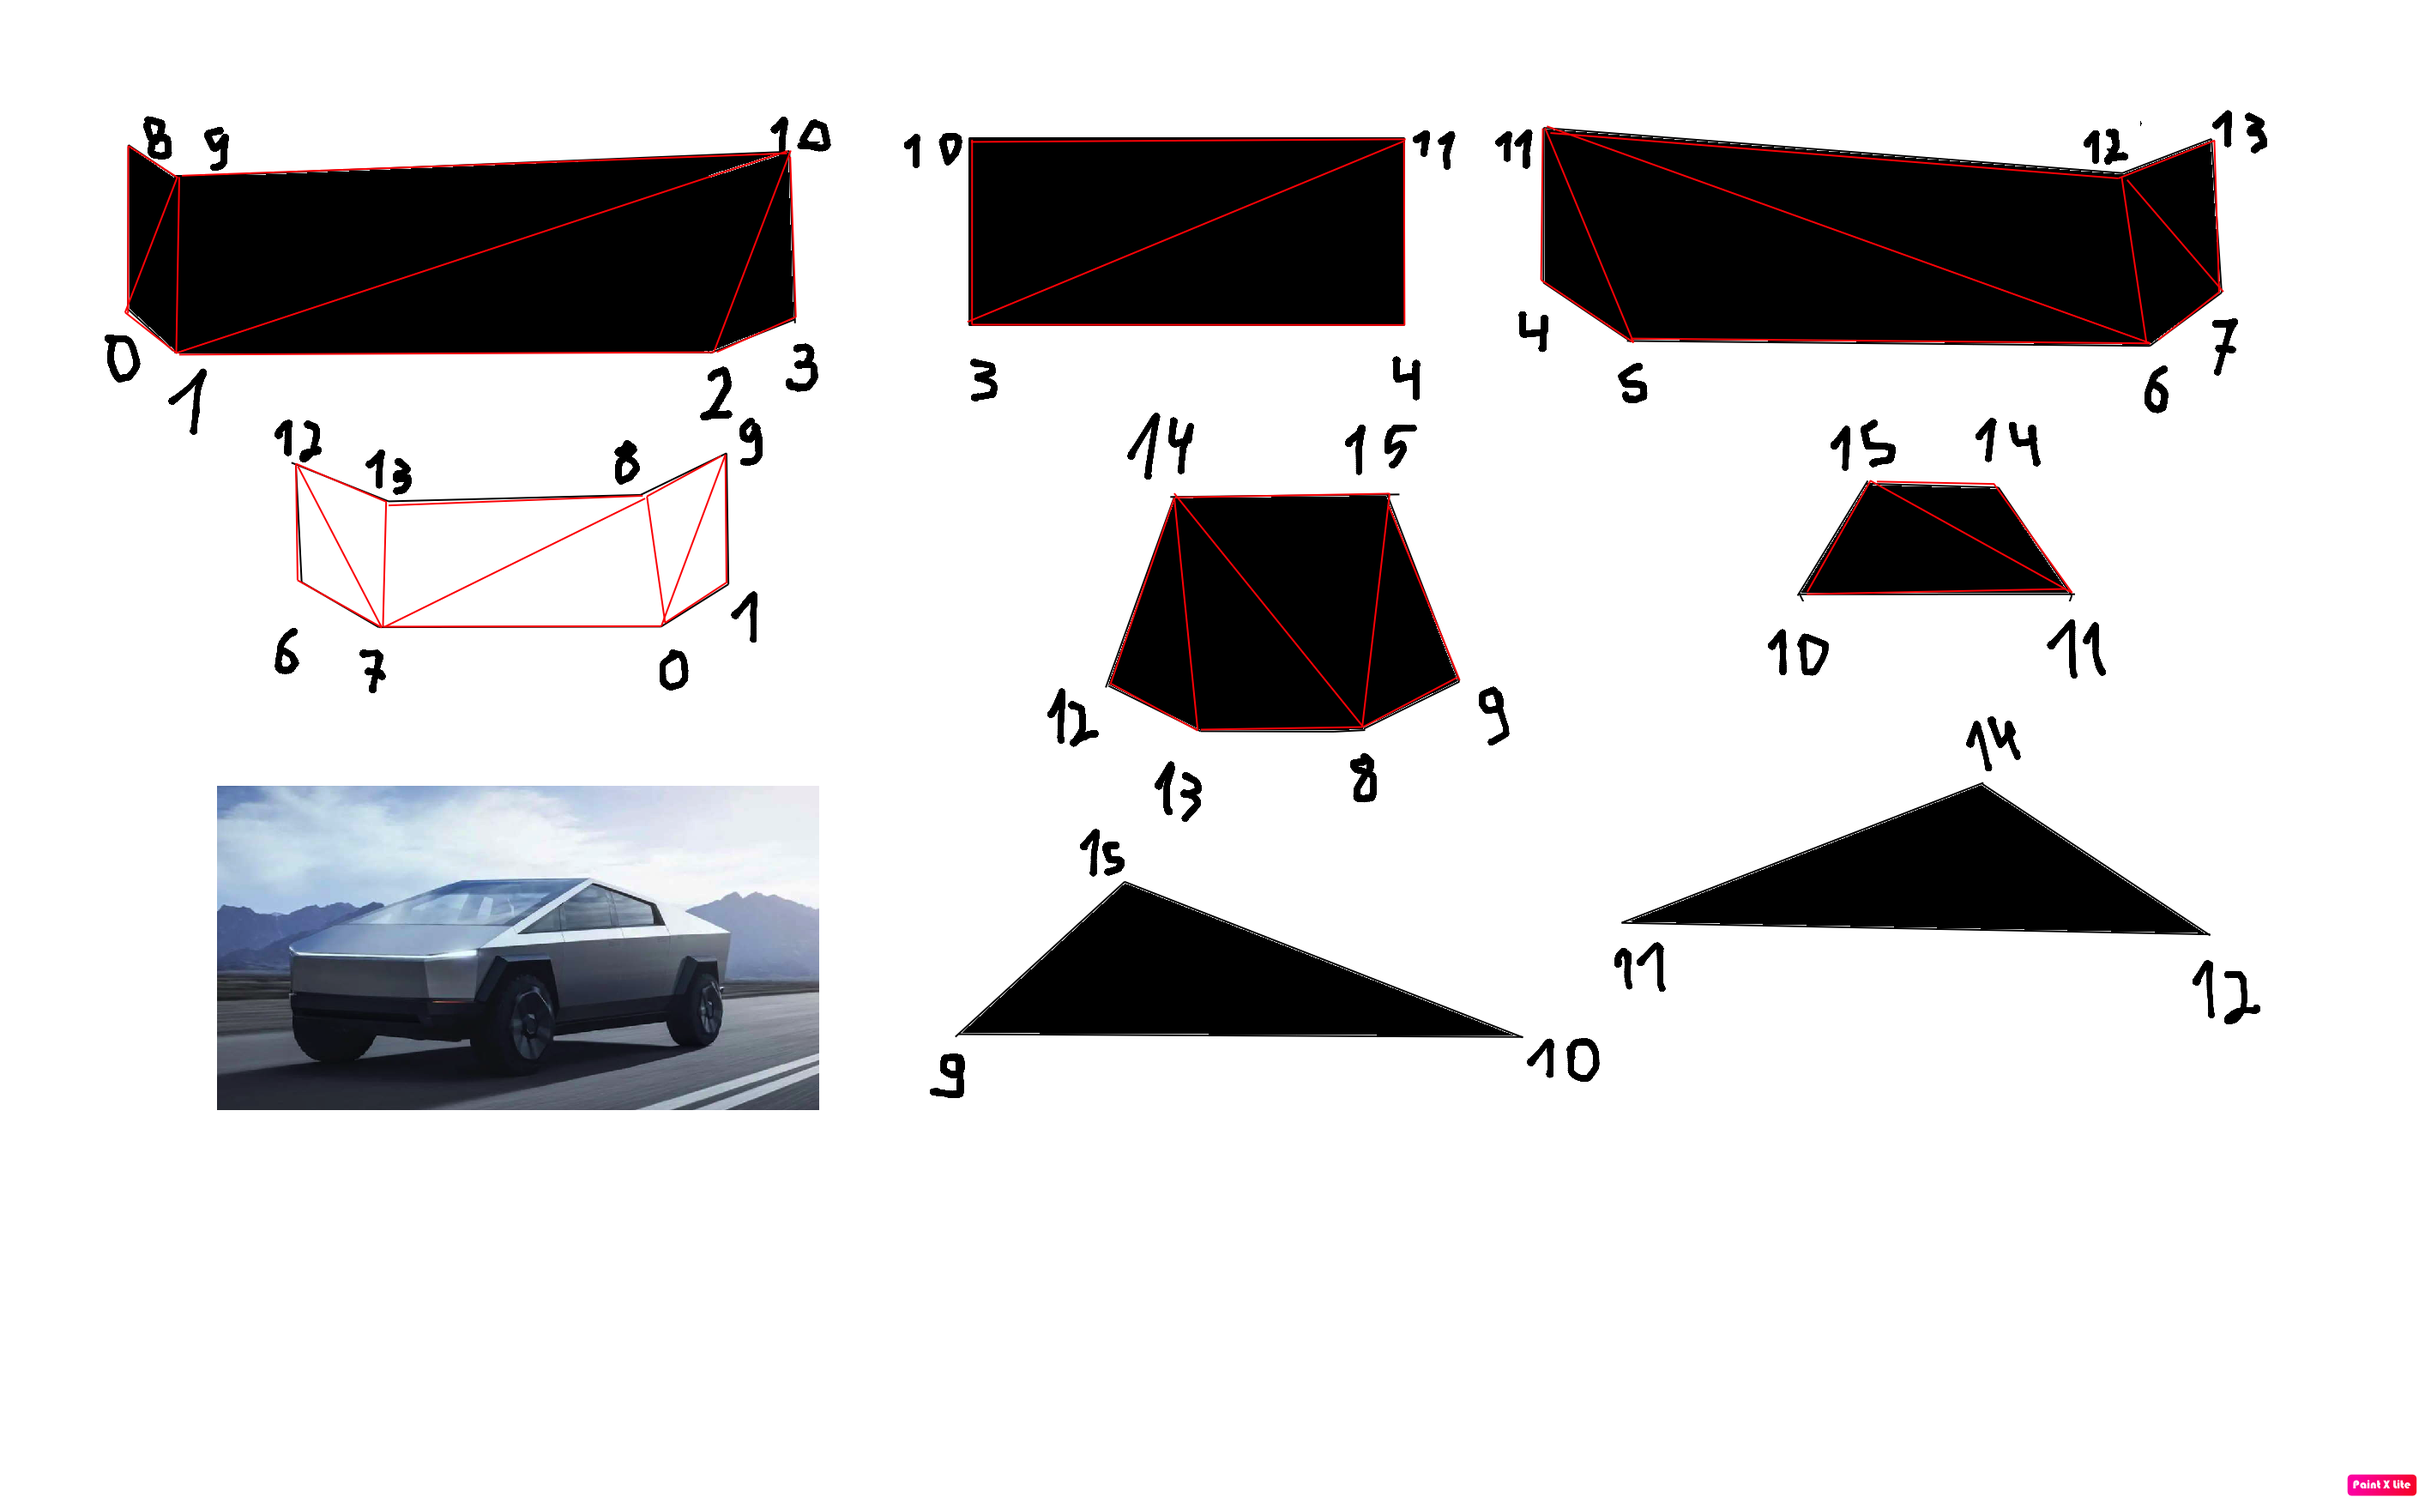
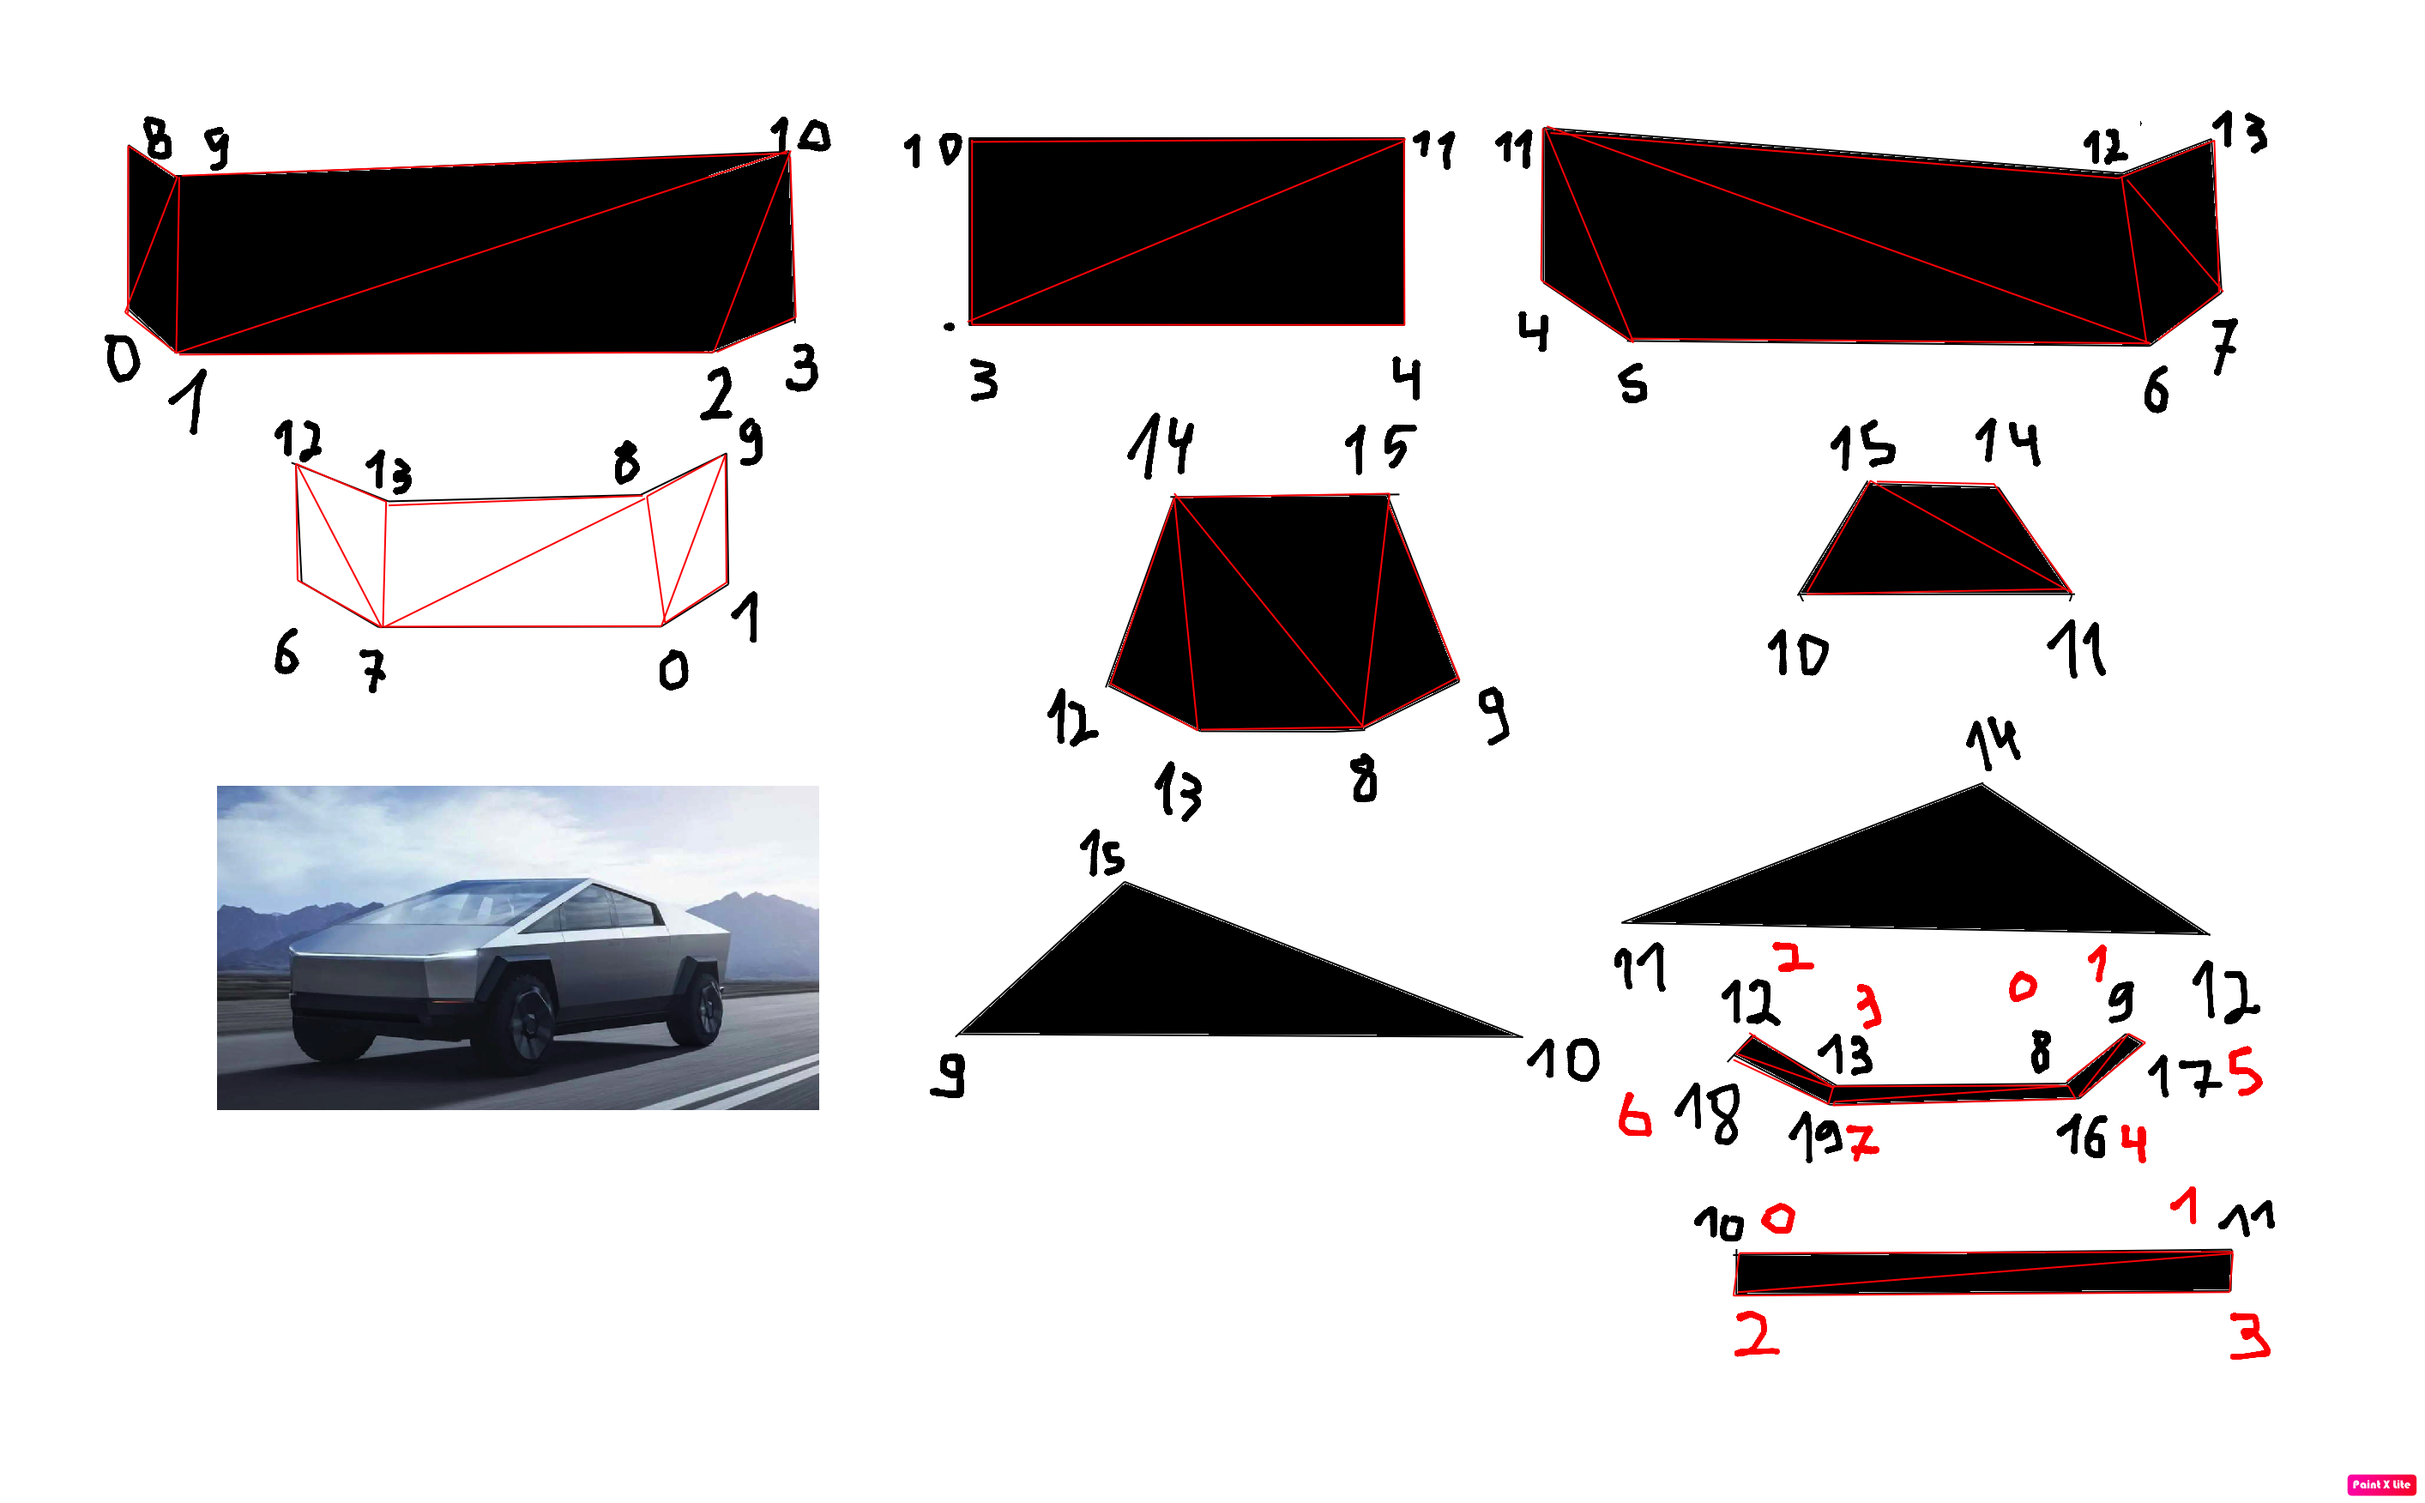
added lights - not mesh

diff --git a/proj3/js/lights.js b/proj3/js/lights.js
@@ -1,0 +1,49 @@
+class Lights extends THREE.Object3D{
+
+    constructor(wheelRadius, platformHeight){
+
+        super();
+
+        material = new THREE.MeshBasicMaterial({ color: 0xd1dcff, wireframe: false});
+        const lights = new THREE.Geometry();
+        const frontLight = new THREE.Geometry();
+        const rearLight = new THREE.Geometry();
+
+        var bottomBodyStyleLength = 588.5;
+        var bottomBodyStyleWidth = 202.7;
+        var bodyStyleHeight = 190.5;
+
+        lights.vertices.push(
+            new THREE.Vector3(-bottomBodyStyleLength/2 -0.1, platformHeight + wheelRadius *9/4, bottomBodyStyleWidth/2 -40),//8 cima 0
+            new THREE.Vector3(-bottomBodyStyleLength/2 +50 -0.1, platformHeight + wheelRadius *9/4, bottomBodyStyleWidth/2),//9 1
+            new THREE.Vector3(-bottomBodyStyleLength/2 +50 -0.1, platformHeight + wheelRadius *9/4, -bottomBodyStyleWidth/2),//12 2
+            new THREE.Vector3(-bottomBodyStyleLength/2 -0.1, platformHeight + wheelRadius *9/4, -bottomBodyStyleWidth/2 +40),//13 3
+
+            new THREE.Vector3(-bottomBodyStyleLength/2 -0.1, platformHeight + wheelRadius *9/4 -3, bottomBodyStyleWidth/2 -40),//16 baixo 4
+            new THREE.Vector3(-bottomBodyStyleLength/2 +50 -0.1, platformHeight + wheelRadius *9/4 -3, bottomBodyStyleWidth/2),//17 5
+            new THREE.Vector3(-bottomBodyStyleLength/2 +50 -0.1, platformHeight + wheelRadius *9/4 -3, -bottomBodyStyleWidth/2),//18 6
+            new THREE.Vector3(-bottomBodyStyleLength/2 -0.1, platformHeight + wheelRadius *9/4 -3, -bottomBodyStyleWidth/2 +40),//19 7
+
+            new THREE.Vector3( bottomBodyStyleLength/2 +10, platformHeight + wheelRadius *11/4, bottomBodyStyleWidth/2),//8
+            new THREE.Vector3( bottomBodyStyleLength/2 +10, platformHeight + wheelRadius *11/4, -bottomBodyStyleWidth/2),//9
+            new THREE.Vector3( bottomBodyStyleLength/2 +10, platformHeight + wheelRadius *11/4 -6, bottomBodyStyleWidth/2),//10
+            new THREE.Vector3( bottomBodyStyleLength/2 +10, platformHeight + wheelRadius *11/4 -6, -bottomBodyStyleWidth/2)//11
+        );
+
+        lights.faces.push(new THREE.Face3(6, 3, 2));//frente
+        lights.faces.push(new THREE.Face3(6, 7, 3));//frente
+        lights.faces.push(new THREE.Face3(7, 4, 0));//frente
+        lights.faces.push(new THREE.Face3(7, 0, 3));//frente
+        lights.faces.push(new THREE.Face3(4, 5, 1));//frente
+        lights.faces.push(new THREE.Face3(1, 0, 4));//frente
+        lights.faces.push(new THREE.Face3(10, 11, 9));//traseira
+        lights.faces.push(new THREE.Face3(9, 8, 10));//traseira
+
+        lights.computeBoundingSphere();
+
+        mesh = new THREE.Mesh(lights, material);
+        mesh.position.set(0, 0, 0);
+        this.add(mesh);
+    }
+
+}

diff --git a/proj3/js/bodyStyle.js b/proj3/js/bodyStyle.js
@@ -1,14 +1,11 @@
 class BodyStyle extends THREE.Object3D{
 
-    constructor(){
+    constructor(wheelRadius, platformHeight){
 
         super();
 
         material = new THREE.MeshBasicMaterial({ color: 0x575a63, wireframe: false});
         const bodyStyle = new THREE.Geometry();
-
-        var platformHeight = 60;
-        var wheelRadius = 44.5;
 
         var bottomBodyStyleLength = 588.5;
         var bottomBodyStyleWidth = 202.7;
@@ -18,8 +15,8 @@ class BodyStyle extends THREE.Object3D{
             new THREE.Vector3(-bottomBodyStyleLength/2, platformHeight + wheelRadius +10, bottomBodyStyleWidth/2 -40),//0
             new THREE.Vector3(-bottomBodyStyleLength/2 +50, platformHeight + wheelRadius, bottomBodyStyleWidth/2),//1
             new THREE.Vector3( bottomBodyStyleLength/2 -50, platformHeight + wheelRadius, bottomBodyStyleWidth/2),//2
-            new THREE.Vector3( bottomBodyStyleLength/2, platformHeight + wheelRadius +20, bottomBodyStyleWidth/2),//3
-            new THREE.Vector3( bottomBodyStyleLength/2, platformHeight + wheelRadius +20, -bottomBodyStyleWidth/2),//4
+            new THREE.Vector3( bottomBodyStyleLength/2, platformHeight + wheelRadius +30, bottomBodyStyleWidth/2),//3
+            new THREE.Vector3( bottomBodyStyleLength/2, platformHeight + wheelRadius +30, -bottomBodyStyleWidth/2),//4
             new THREE.Vector3( bottomBodyStyleLength/2 -50, platformHeight + wheelRadius, -bottomBodyStyleWidth/2),//5
             new THREE.Vector3(-bottomBodyStyleLength/2 +50, platformHeight + wheelRadius, -bottomBodyStyleWidth/2),//6
             new THREE.Vector3(-bottomBodyStyleLength/2, platformHeight + wheelRadius +10, -bottomBodyStyleWidth/2 +40),//7
@@ -60,7 +57,7 @@ class BodyStyle extends THREE.Object3D{
         bodyStyle.faces.push(new THREE.Face3(10, 11, 15));//cima
         bodyStyle.faces.push(new THREE.Face3(11, 14, 15));//cima
         bodyStyle.faces.push(new THREE.Face3(9, 10, 15));//lado direito
-        bodyStyle.faces.push(new THREE.Face3(12, 14, 11));//lado direito
+        bodyStyle.faces.push(new THREE.Face3(12, 14, 11));//lado esquerdo
 
         bodyStyle.computeBoundingSphere();
 

diff --git a/proj3/js/chassis.js b/proj3/js/chassis.js
@@ -1,6 +1,6 @@
 class Chassis extends THREE.Object3D{
 
-    constructor(){
+    constructor(wheelRadius, platformHeight){
 
         super();
 
@@ -10,12 +10,10 @@ class Chassis extends THREE.Object3D{
         var rearRightWheel = new THREE.Object3D();
         var chassisPlatform = new THREE.Object3D();
 
-        var wheelRadius = 44.5; //in cm
         var wheelHeight = 29.6;
         var chassisPlatformLength = 380.7;
         var chassisPlatformWidth = 202.7;
         var chassisPlatformHeight = 20;
-        var platformHeight = 60;
         var wheelColor = 0x00000;
 
         frontLeftWheel.add(new Cylinder(-chassisPlatformLength/2, platformHeight + wheelRadius,
@@ -34,8 +32,8 @@ class Chassis extends THREE.Object3D{
             chassisPlatformWidth/2, 0, 1/2, 1/2, wheelHeight, wheelRadius, 200, 10, wheelColor));
         this.add(rearRightWheel);
 
-        chassisPlatform.add(new Cube(0, platformHeight + wheelRadius, 0, 0, 0, 0,
-            chassisPlatformLength, chassisPlatformHeight, chassisPlatformWidth-1, wheelColor));
+        chassisPlatform.add(new Cube(0, platformHeight + wheelRadius + chassisPlatformHeight/2, 0, 0, 0, 0,
+            chassisPlatformLength, chassisPlatformHeight, chassisPlatformWidth-0.1, wheelColor));
         this.add(chassisPlatform);
 
     }

diff --git a/proj3/js/totalParts.js b/proj3/js/totalParts.js
@@ -12,14 +12,20 @@ class TotalParts extends THREE.Object3D{
         this.time = new THREE.Clock();
         this.delta;
 
-        var chassis = new Chassis();
-        var bodyStyle = new BodyStyle();
-        var platform = new Platform();
+        var platformHeight = 60;
+        var wheelRadius = 44.5;
+
+        var platform = new Platform(platformHeight);
+        var chassis = new Chassis(wheelRadius, platformHeight);
+        var bodyStyle = new BodyStyle(wheelRadius, platformHeight);
+        var lights = new Lights(wheelRadius, platformHeight);
+
 
         // ADD PARTS
         this.add(chassis);
         this.add(bodyStyle);
         this.add(platform);
+        this.add(lights);
         this.scale.multiplyScalar(0.3);
 
         scene.add(this);

diff --git a/proj3/js/platform.js b/proj3/js/platform.js
@@ -1,16 +1,13 @@
 class Platform extends THREE.Object3D{
 
-    constructor(){
+    constructor(platformHeight){
 
         super();
 
         var platformColor = '#848999';
-        var platformHeight = 60;
         var platformRadius = 350;
 
         this.add(new Cylinder(0, platformHeight/2, 0, 0, 0, 0, platformHeight, platformRadius, 200, 10, platformColor));
-
-
     }
 
 }

diff --git a/proj3/index.html b/proj3/index.html
@@ -19,6 +19,7 @@
         <script src="js/chassis.js"></script>
         <script src="js/plane.js"></script>
         <script src="js/bodyStyle.js"></script>
+        <script src="js/lights.js"></script>
         <script src="js/totalParts.js"></script>
 
     </head>
